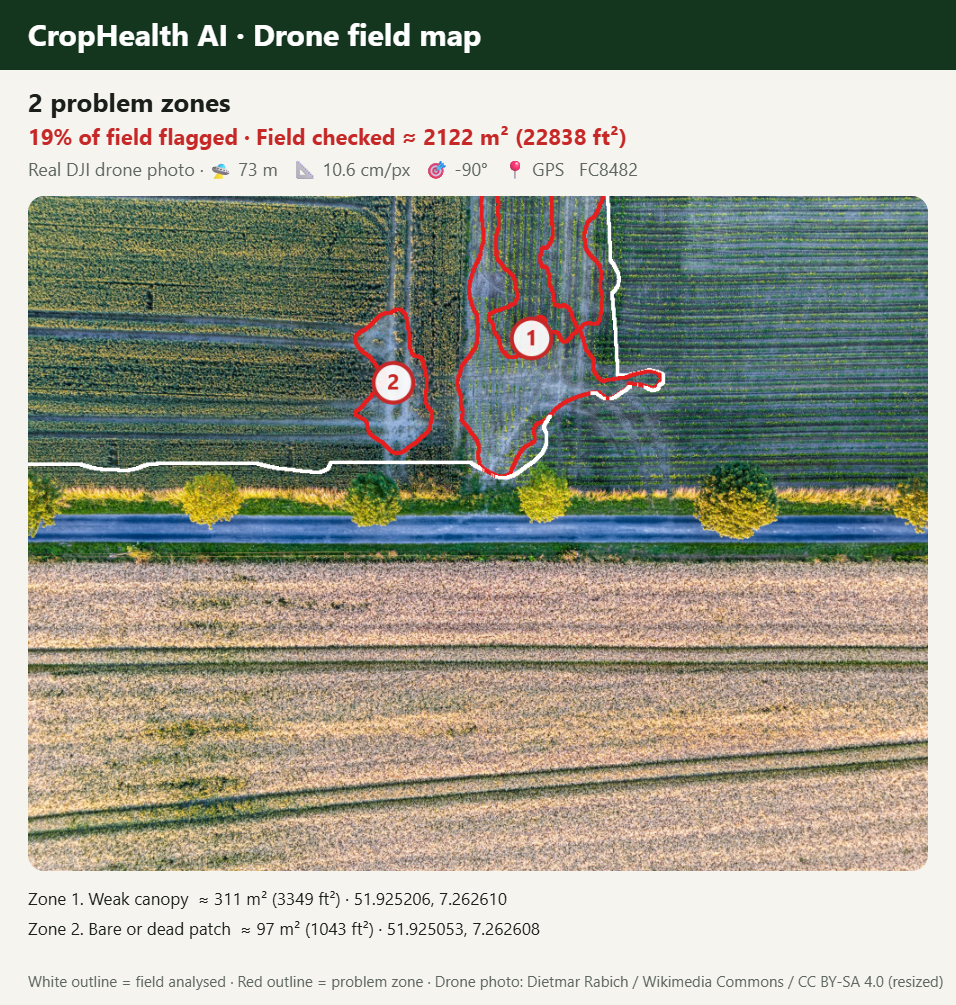
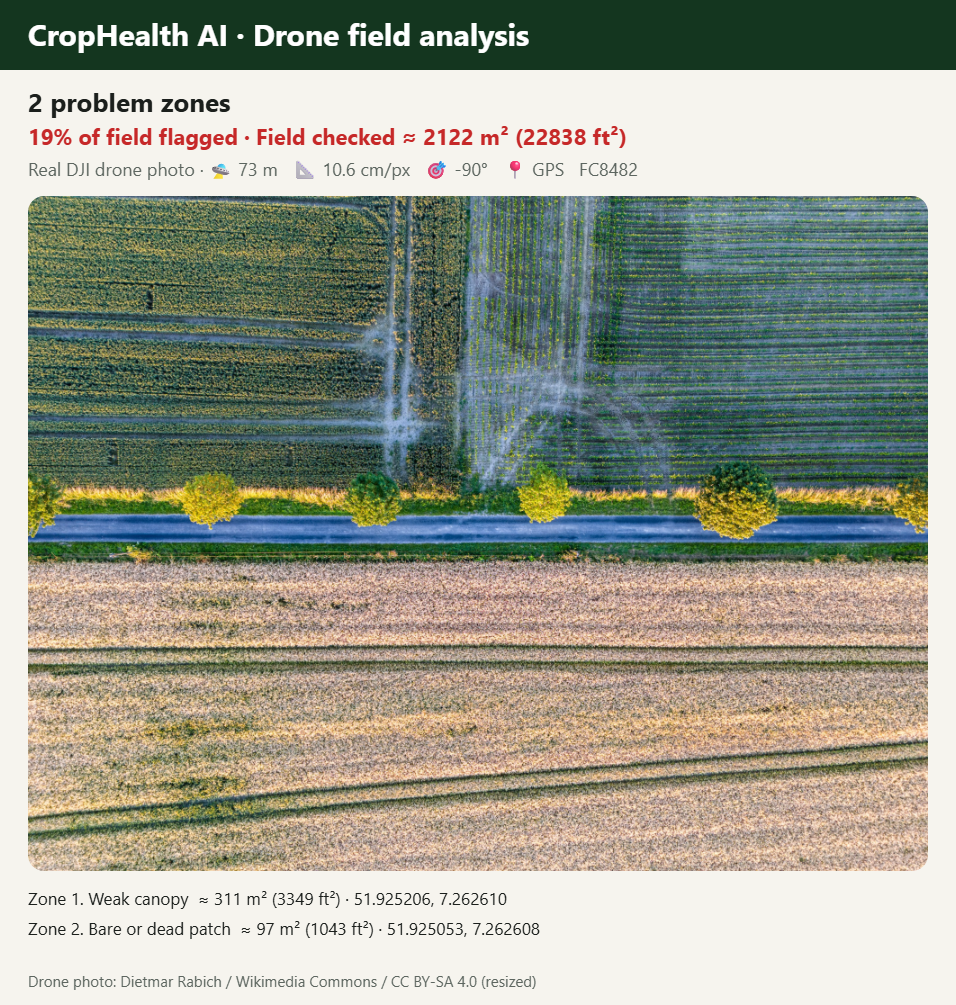
Update drone docs and screenshots for plain analysis view

diff --git a/docs/SUBMISSION.md b/docs/SUBMISSION.md
@@ -16,7 +16,7 @@
 
 ## Short description (paste into the form)
 
-> CropHealth AI is a free, offline-first phone app that helps California Central Valley growers and farmworkers catch crop disease early. A farmer photographs a leaf and an AI model running entirely on the phone checks it for late blight (tomato and potato) and bacterial spot (bell pepper) in about a second, with no cell signal needed. It shows where on the leaf it saw disease, says "not sure" instead of guessing, and gives next steps based on UC IPM guidance in English, Spanish and Punjabi, with read-aloud. A drone field map finds weak or thinning canopy in straight-down drone photos, outlines each problem zone, measures the field and each zone in acres, and GPS-pins every zone so the grower can walk straight to it. A 7-day risk forecast warns when the weather favors disease. Scans stay private on the phone and can be exported as a CSV or a printed report for a UC Cooperative Extension farm advisor or PCA.
+> CropHealth AI is a free, offline-first phone app that helps California Central Valley growers and farmworkers catch crop disease early. A farmer photographs a leaf and an AI model running entirely on the phone checks it for late blight (tomato and potato) and bacterial spot (bell pepper) in about a second, with no cell signal needed. It shows where on the leaf it saw disease, says "not sure" instead of guessing, and gives next steps based on UC IPM guidance in English, Spanish and Punjabi, with read-aloud. A drone field map finds weak or thinning canopy in straight-down drone photos, lists each problem zone, measures the field and each zone in acres, and GPS-pins every zone so the grower can walk straight to it. A 7-day risk forecast warns when the weather favors disease. Scans stay private on the phone and can be exported as a CSV or a printed report for a UC Cooperative Extension farm advisor or PCA.
 
 **Languages and tools:** TypeScript, React, Vite, PWA/service workers, ONNX Runtime Web (WebAssembly), Python, PyTorch, scikit-learn, Leaflet/OpenStreetMap, Open-Meteo API.
 
@@ -33,7 +33,7 @@ The full one-presenter script is in [VIDEO_SCRIPT.md](VIDEO_SCRIPT.md). Quick ou
 | 0:40–1:20 | Phone: Scan → choose Tomato → gallery → diseased leaf → result, then tap **Show where** | "You take a photo of a leaf. The AI runs right on the phone, so it works with no signal. It found late blight, and the red highlight shows where it saw the lesions. Then it tells you what to do next, based on University of California IPM guidance." |
 | 1:20–1:35 | Healthy leaf → ✅; blurry or non-leaf photo → "Not sure" | "When it isn't confident, it says so instead of guessing. A wrong answer could cost a farmer a crop or money spent on sprays they didn't need." |
 | 1:35–1:50 | Switch language to Español, tap 🔊 Read aloud | "Everything works in English, Spanish and Punjabi, and it can read results out loud." |
-| 1:50–2:15 | Drone field map → upload `demo/drone/drone-damaged-field-73m.jpg` → outlined problem zones, acres, Navigate | "For whole fields, I upload a real drone photo. The app reads the drone's height and GPS, outlines the weak canopy in the field, measures it, and pins each problem zone on the map." |
+| 1:50–2:15 | Drone field map → upload `demo/drone/drone-damaged-field-73m.jpg` → problem-zone list, acres, Navigate | "For whole fields, I upload a real drone photo. The app reads the drone's height and GPS, finds the weak canopy in the field, measures it, and pins each problem zone on the map." |
 | 2:15–2:35 | Risk tab (Fresno), then Field log → Map → Export CSV | "The risk forecast uses real weather data and published disease models to warn you before conditions favor blight. Every scan is saved privately on the phone and can be exported for a farm advisor." |
 | 2:35–2:55 | Training curves / confusion matrix from `ml/results` | "I trained a MobileNetV2 network on about 4,700 leaf images and tested it on over a thousand it had never seen. I learned about class imbalance, calibration, and how lab photos differ from real fields. Next, I want to test CropHealth AI with local growers and add more crops, like grapes and almonds." |
 

diff --git a/README.md b/README.md
@@ -36,7 +36,7 @@ The Central Valley is one of the most productive farming regions in the world, a
 - 🔥 **Explainable results.** **Show where** highlights, in red, the part of the leaf that drove the diagnosis (the model's class-activation map).
 - ❔ **Honest uncertainty.** Calibrated confidence (temperature scaling). CropHealth AI says "not sure" below 60% confidence or when the photo has too little leaf in it.
 - 📸 **Photo quality checks.** Warns when a photo is too dark, too bright, blurry, or has too little leaf.
-- 🛸 **Drone field-health map.** Upload straight-down drone photos (one or a whole flight). CropHealth AI finds the crop field (or the one you tap), then checks each spot's vegetation index (VARI), canopy thinning and bare gaps against that field's own typical values, and outlines every problem zone in red on the photo. Tractor tramlines and paths are recognized by shape and ignored. It reads the drone's own flight data (altitude, gimbal angle, heading, camera, GPS) to report ground resolution, field area in m²/acres and the size of every problem zone, and GPS-locates each zone with a **Navigate** link and pins on the field-log map. From the air it maps *where* the crop is struggling; the leaf scan then identifies *what* it is.
+- 🛸 **Drone field-health map.** Upload straight-down drone photos (one or a whole flight). CropHealth AI finds the main crop field, then checks each spot's vegetation index (VARI), canopy thinning and bare gaps against that field's own typical values, and lists every problem zone it finds. Tractor tramlines and paths are recognized by shape and ignored. It reads the drone's own flight data (altitude, gimbal angle, heading, camera, GPS) to report ground resolution, field area in m²/acres and the size of every problem zone, and GPS-locates each zone with a **Navigate** link and pins on the field-log map. From the air it maps *where* the crop is struggling; the leaf scan then identifies *what* it is.
 - 🌦 **Disease risk forecast.** Open-Meteo hourly weather plus the **Hutton criteria** for late blight and a warm-and-wet hour model for bacterial spot, for 14 Valley towns or your GPS location.
 - 📘 **Action guide.** Symptoms, spread conditions, urgent steps and prevention, based on UC IPM guidance, with links to the official pages.
 - 🗺 **Private field log.** Scans are stored on the phone (IndexedDB) and shown as a list or map, with CSV export and a printable report.
@@ -45,9 +45,9 @@ The Central Valley is one of the most productive farming regions in the world, a
 
 ## Drone field map in action
 
-![Drone field map of a damaged field](docs/screenshots/drone-damaged-field.png)
+![Drone field analysis of a damaged field](docs/screenshots/drone-damaged-field.png)
 
-A real DJI drone photo from 73 m. The app read the drone's flight data (10.6 cm per pixel, GPS), found the crop field (white outline), and outlined the thinned, damaged area in red. It measured 2 problem zones (≈ 311 m² and ≈ 97 m²) and GPS-located each one. A healthy field for comparison: [docs/screenshots/drone-healthy-field.png](docs/screenshots/drone-healthy-field.png).
+A real DJI drone photo from 73 m. The app read the drone's flight data (10.6 cm per pixel, GPS), found the crop field, and detected the thinned, damaged area. It measured 2 problem zones (≈ 311 m² and ≈ 97 m²) and GPS-located each one. A healthy field for comparison: [docs/screenshots/drone-healthy-field.png](docs/screenshots/drone-healthy-field.png).
 
 ## What it detects
 

diff --git a/docs/VIDEO_SCRIPT.md b/docs/VIDEO_SCRIPT.md
@@ -59,10 +59,10 @@ Replace `[NAME]`, `[SCHOOL]` and `[CITY]`. One presenter reads every line. Spoke
 
 | | |
 |---|---|
-| **Shot** | Scan tab → **Drone field map** → upload `demo/drone/drone-damaged-field-73m.jpg`. Show the chips (73 m · 10.6 cm/px · GPS) and the red outlines on the photo, scroll to the zone list and tap **Navigate** on zone 1. Then **Save** → Field log → **Map** with the zone pins. |
-| **On-screen text** | `Real drone photo · 73 m` · `Red outline = weak or thinning crop` · `Drone photo: D. Rabich, CC BY-SA 4.0` |
+| **Shot** | Scan tab → **Drone field map** → upload `demo/drone/drone-damaged-field-73m.jpg`. Show the chips (73 m · 10.6 cm/px · GPS) and the summary (2 problem zones · 19% of field), scroll to the zone list and tap **Navigate** on zone 1. Then **Save** → Field log → **Map** with the zone pins. |
+| **On-screen text** | `Real drone photo · 73 m` · `2 problem zones found · 19% of field` · `Drone photo: D. Rabich, CC BY-SA 4.0` |
 
-> For whole fields, I upload a real drone photo. The app reads the drone's own flight data: height, camera angle and GPS. It finds the crop field and outlines in red everywhere the crop is weaker or thinner than the rest of that field. It even ignores the tractor tracks. Then it measures each problem zone and pins it on the map, so a farmer can walk straight to it and scan a leaf to find out what's wrong.
+> For whole fields, I upload a real drone photo. The app reads the drone's own flight data: height, camera angle and GPS. It finds the crop field and detects everywhere the crop is weaker or thinner than the rest of that field. It even ignores the tractor tracks. Then it measures each problem zone and pins it on the map, so a farmer can walk straight to it and scan a leaf to find out what's wrong.
 
 ## Scene 7: Forecast and records (2:12–2:27)
 

diff --git a/demo/drone/CREDITS.md b/demo/drone/CREDITS.md
@@ -6,7 +6,7 @@ camera) were copied over unchanged so CropHealth AI can measure real ground area
 
 | File | What it shows | Altitude | Expected result | Source |
 |---|---|---|---|---|
-| `drone-damaged-field-73m.jpg` | Crop field with a visibly thinned, damaged area | 73 m | Damaged area outlined in red: 2 problem zones (≈ 311 m² and ≈ 97 m²), ≈ 19% of a ≈ 2,100 m² field | [Nottuln, Gladbeck, Felder -- 2024 -- 0141](https://commons.wikimedia.org/wiki/File:Nottuln,_Gladbeck,_Felder_--_2024_--_0141.jpg) |
+| `drone-damaged-field-73m.jpg` | Crop field with a visibly thinned, damaged area | 73 m | Detects the damaged area: 2 problem zones (≈ 311 m² and ≈ 97 m²), ≈ 19% of a ≈ 2,100 m² field | [Nottuln, Gladbeck, Felder -- 2024 -- 0141](https://commons.wikimedia.org/wiki/File:Nottuln,_Gladbeck,_Felder_--_2024_--_0141.jpg) |
 | `drone-grain-field-35m.jpg` | Healthy grain field with tramlines and a grass margin | 35 m | Mostly blue; tramlines ignored; a few small bare spots | [Dülmen, Merfeld, Felder -- 2024 -- 0102](https://commons.wikimedia.org/wiki/File:D%C3%BClmen,_Merfeld,_Felder_--_2024_--_0102.jpg) |
 
 Both: © Dietmar Rabich, [CC BY-SA 4.0](https://creativecommons.org/licenses/by-sa/4.0/), resized. Credit line for a video description:
